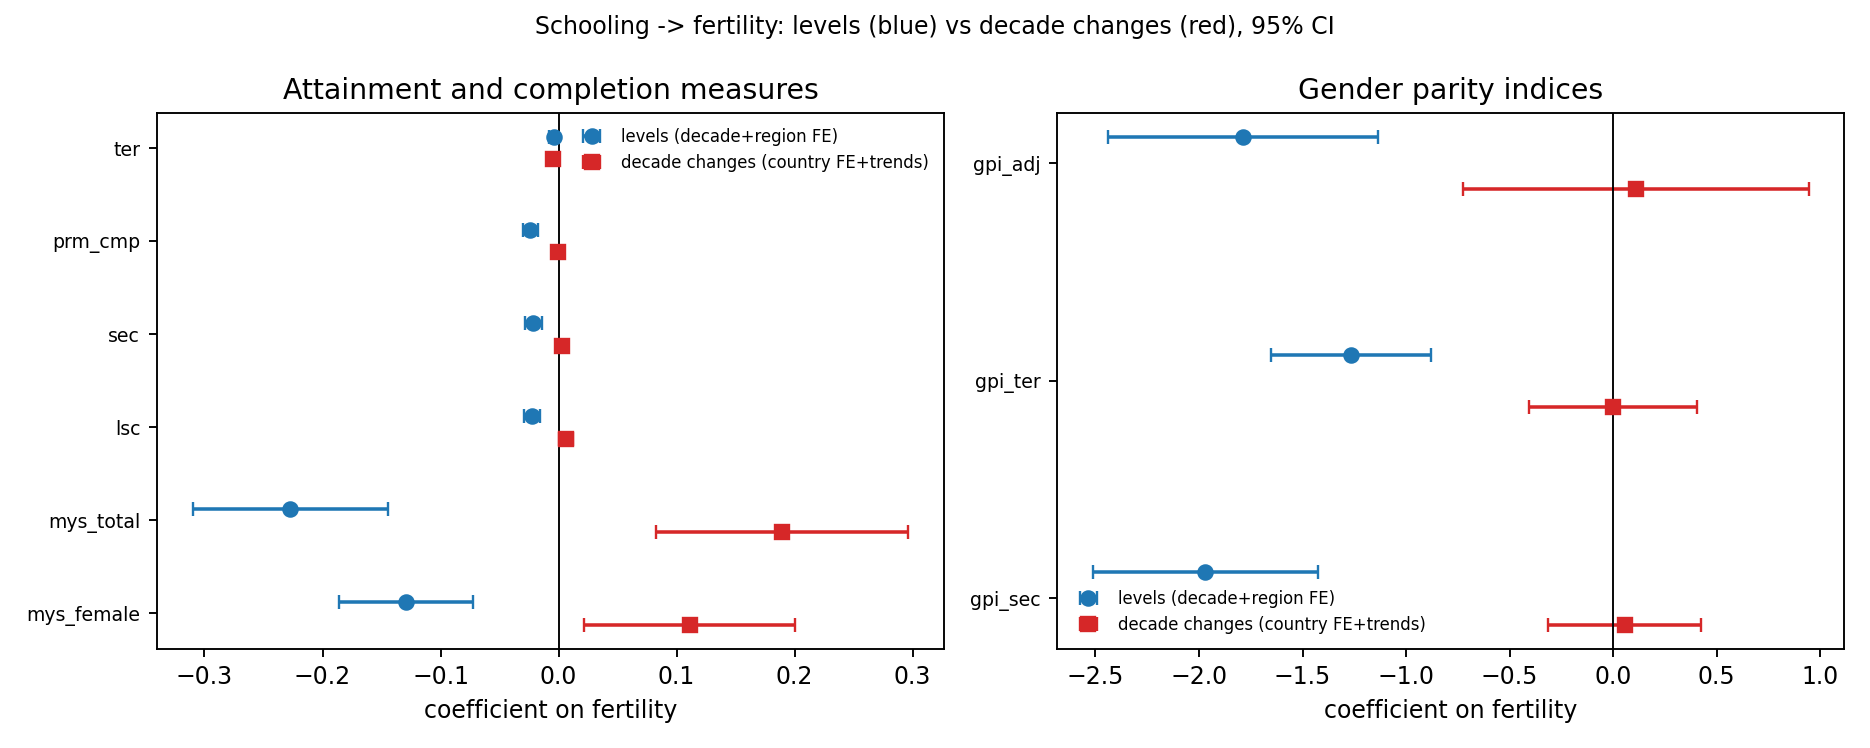
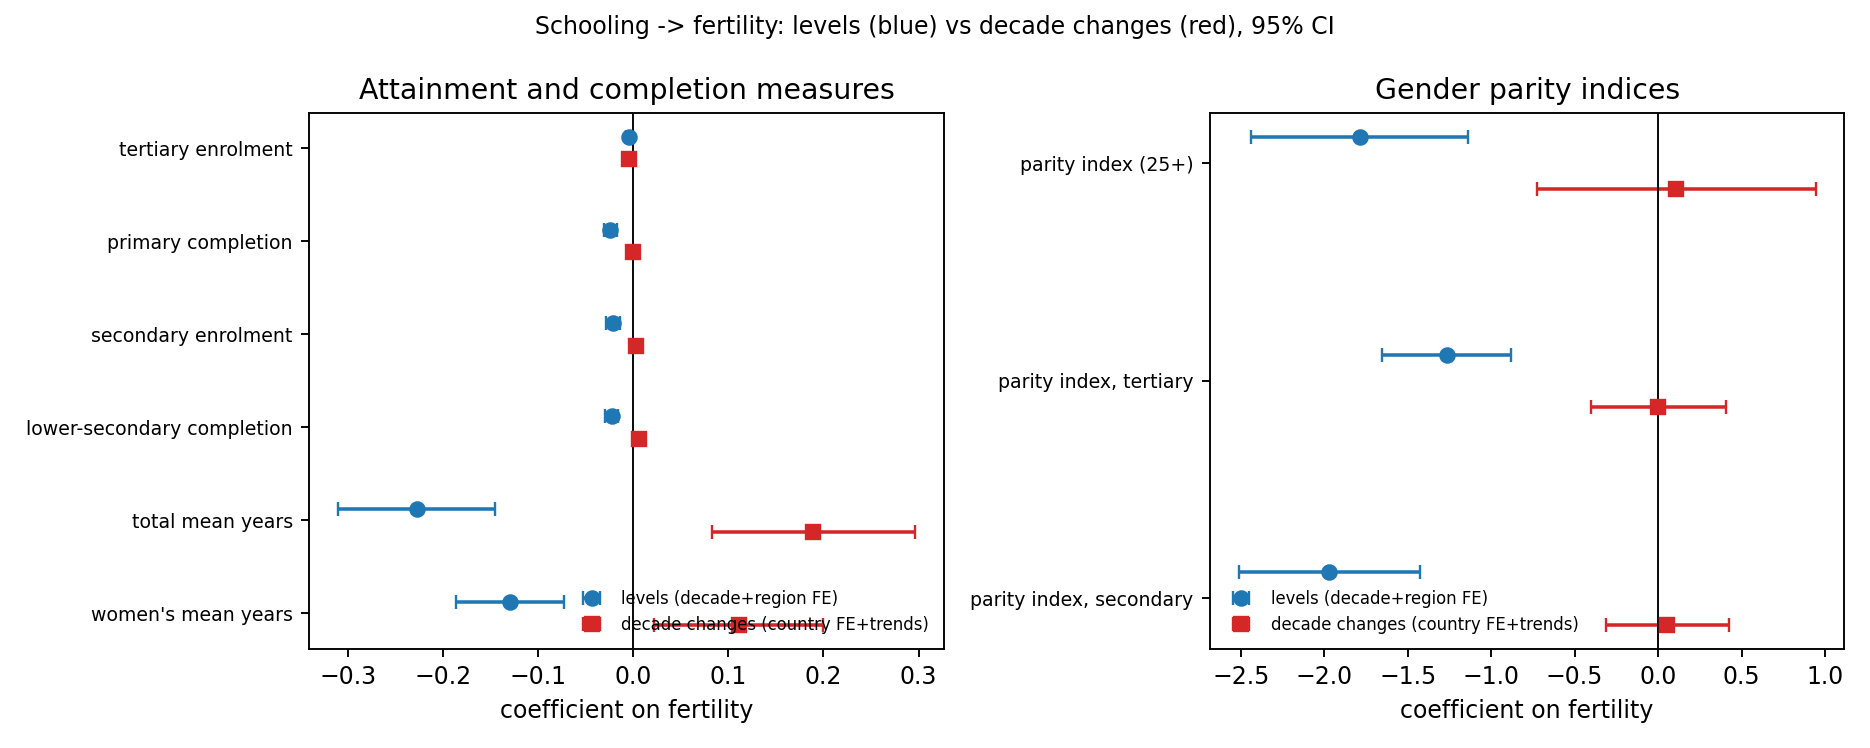
Task 15: plain-word labels on the levels-vs-changes figure
Figure regenerated from the committed plotting script; no numbers changed.

diff --git a/research/records/2026-11-23-corr-rebuild/scripts/corr_rebuild_part2.py b/research/records/2026-11-23-corr-rebuild/scripts/corr_rebuild_part2.py
@@ -423,6 +423,11 @@ if __name__ == "__main__":
 
     # ---- figures ----
     lvc = json.load(open(os.path.join(OUT, "results_part1.json")))["levels_vs_changes"]
+    PLAIN = {"mys_female": "women's mean years", "mys_total": "total mean years",
+             "sec": "secondary enrolment", "lsc": "lower-secondary completion",
+             "prm_cmp": "primary completion", "ter": "tertiary enrolment",
+             "gpi_sec": "parity index, secondary", "gpi_ter": "parity index, tertiary",
+             "gpi_adj": "parity index (25+)"}
     fig, axes = plt.subplots(1, 2, figsize=(11, 4.4))
     groups = [("mys_female", "mys_total", "lsc", "sec", "prm_cmp", "ter"),
               ("gpi_sec", "gpi_ter", "gpi_adj")]
@@ -433,7 +438,7 @@ if __name__ == "__main__":
             C = lvc[m]["change_trends"]
             if not L or not C:
                 continue
-            ys.append(len(names)); names.append(m)
+            ys.append(len(names)); names.append(PLAIN.get(m, m))
             lev.append((L["b"], 1.96 * L["se"]))
             chg.append((C["b"], 1.96 * C["se"]))
         y = np.arange(len(names))
